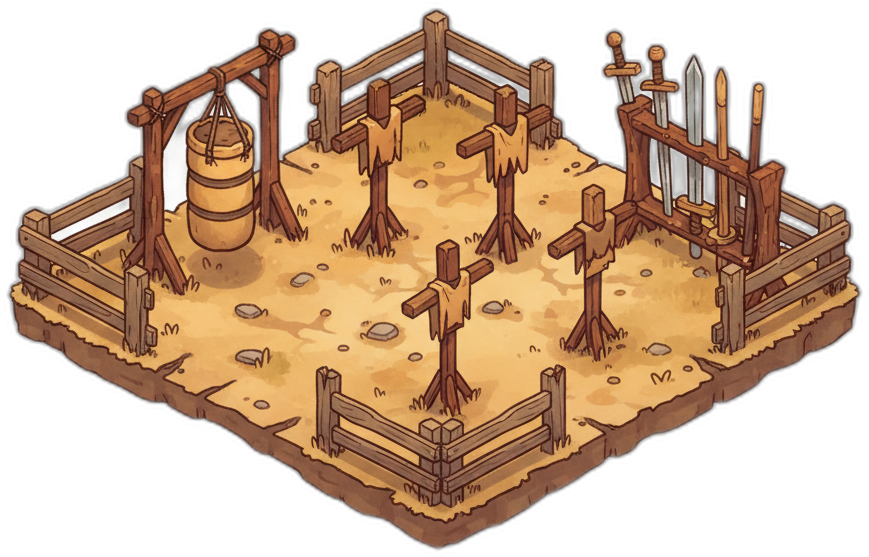
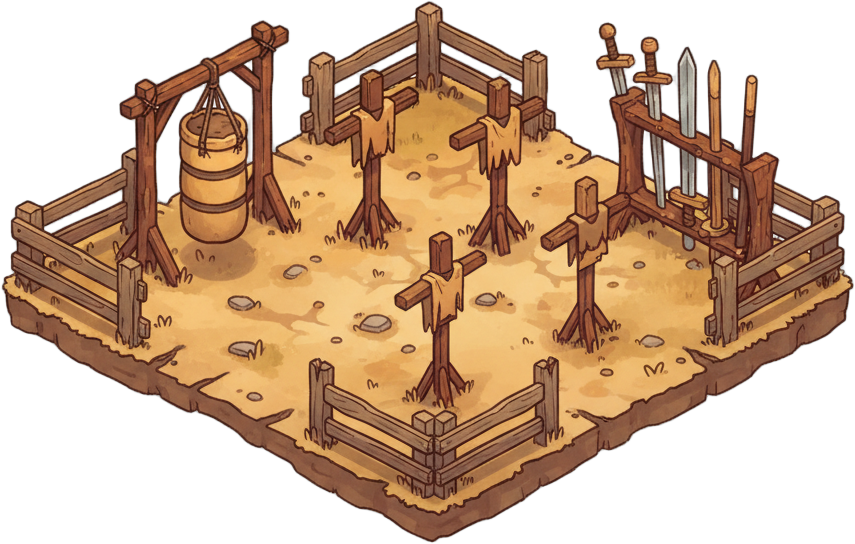
배럭 — 9:16 모바일 레이아웃 + 하단 네비 + 투명화 재처리
피드백 반영:
- 모든 건물 9장 birefnet-general 모델로 배경 재제거 (잔여물 제거)
  + auto-crop으로 정확한 bbox
- 9:16 포트레이트 레이아웃: HUD (56) + Stage 1:1 + Floor + Nav (64)
- 건물 너비 개별 조정 (주방/공방 22%, 훈련장 28% — 가로형 보정)
- 하단 네비게이션 4탭 (배럭/월드맵/편성/가문/상점) — GDD §5-4
- 월드맵 탭 클릭 시 배럭 닫기 + 다른 탭 placeholder 토스트

diff --git a/demo/style.css b/demo/style.css
@@ -953,54 +953,92 @@ html, body { height: 100%; overflow: hidden; background: #050507; color: #e8e8e8
 #loading-status { color: #6aa06a !important; font-family: monospace; }
 
 /* ─────────────────────────────────────────
-   배럭 뷰 (가문 본거지 마을 화면)
-   배경 1:1 정사각형, 건물 3개 + SD 캐릭터 활동
+   배럭 뷰 — 9:16 모바일 포트레이트 레이아웃
+   ┌───────────┐
+   │ Top HUD   │  ← 56px
+   ├───────────┤
+   │ 배경 1:1   │  ← width 100%, height = width
+   │ + 건물 3   │
+   ├───────────┤
+   │ 캐릭터존   │  ← BG와 같은 색조로 이어짐
+   ├───────────┤
+   │ Bottom Nav│  ← 64px (4탭)
+   └───────────┘
    ───────────────────────────────────────── */
 #barracks-view { position: absolute; inset: 0; z-index: 100;
-  background: #0a0a0a; display: flex; flex-direction: column;
-  animation: bk-fade 0.25s ease; }
+  display: flex; flex-direction: column;
+  background: linear-gradient(180deg, #88c5e8 0%, #d4a878 60%, #c89858 100%);
+  animation: bk-fade 0.25s ease; overflow: hidden; }
 @keyframes bk-fade { from { opacity: 0; } to { opacity: 1; } }
 
-.bk-hud { position: absolute; top: 0; left: 0; right: 0; z-index: 10;
-  background: linear-gradient(180deg, rgba(20,14,10,0.92), rgba(20,14,10,0.6) 70%, transparent);
-  padding: 10px 14px; display: flex; align-items: center; gap: 10px;
-  font-size: 13px; color: #ffd452; }
-.bk-loc { font-weight: bold; font-size: 14px;
-  background: rgba(0,0,0,0.5); padding: 4px 12px; border-radius: 12px;
-  border: 1px solid rgba(255,212,82,0.4); }
-.bk-currency { background: rgba(0,0,0,0.5); padding: 4px 10px; border-radius: 10px;
-  border: 1px solid rgba(255,255,255,0.15); color: #fff; }
-.bk-currency b { color: #ffd452; font-variant-numeric: tabular-nums; }
-.bk-close { margin-left: auto; padding: 6px 14px; border-radius: 6px;
-  border: 1px solid #888; background: rgba(0,0,0,0.6); color: #fff;
-  font-weight: bold; font-size: 12px; cursor: pointer; }
+/* 상단 HUD */
+.bk-hud { position: relative; z-index: 10; flex: 0 0 auto;
+  padding: 10px 12px; display: flex; align-items: center; gap: 8px;
+  font-size: 12px; color: #fff;
+  background: linear-gradient(180deg, rgba(15,10,6,0.9), rgba(15,10,6,0.4) 70%, transparent);
+  height: 56px; box-sizing: border-box; }
+.bk-loc { font-weight: bold; font-size: 13px; color: #ffd452;
+  background: rgba(0,0,0,0.55); padding: 5px 10px; border-radius: 12px;
+  border: 1px solid rgba(255,212,82,0.45); white-space: nowrap; }
+.bk-currency { background: rgba(0,0,0,0.55); padding: 5px 8px; border-radius: 10px;
+  border: 1px solid rgba(255,255,255,0.15); font-variant-numeric: tabular-nums; }
+.bk-currency b { color: #ffd452; }
+.bk-close { margin-left: auto; padding: 5px 10px; border-radius: 6px;
+  border: 1px solid #aaa; background: rgba(0,0,0,0.65); color: #fff;
+  font-weight: bold; font-size: 11px; cursor: pointer; }
 .bk-close:hover { filter: brightness(1.25); }
 
+/* 메인 스테이지 (배경 + 건물) */
 .bk-stage { position: relative; width: 100%; aspect-ratio: 1 / 1;
-  margin-top: auto; margin-bottom: auto;
-  overflow: hidden; }
+  flex: 0 0 auto; overflow: hidden; }
 .bk-bg { position: absolute; inset: 0; width: 100%; height: 100%;
   object-fit: cover; pointer-events: none; }
 
 .bk-building { position: absolute; cursor: pointer; z-index: 2;
   transition: transform 0.18s; transform-origin: 50% 100%;
-  filter: drop-shadow(0 4px 8px rgba(0,0,0,0.4)); }
+  filter: drop-shadow(0 5px 8px rgba(0,0,0,0.4)); }
 .bk-building:hover { transform: scale(1.06); z-index: 3; }
 .bk-building:active { transform: scale(1.02); }
 .bk-building img { display: block; width: 100%; height: auto;
   pointer-events: none; }
-.bk-bld-label { position: absolute; bottom: -20px; left: 50%;
+.bk-bld-label { position: absolute; bottom: -18px; left: 50%;
   transform: translateX(-50%); white-space: nowrap;
-  background: rgba(0,0,0,0.75); color: #ffd452;
-  padding: 2px 8px; border-radius: 8px; font-size: 11px; font-weight: bold;
-  border: 1px solid rgba(255,212,82,0.4); }
+  background: rgba(0,0,0,0.78); color: #ffd452;
+  padding: 2px 8px; border-radius: 8px; font-size: 10px; font-weight: bold;
+  border: 1px solid rgba(255,212,82,0.45); }
 .bk-bld-lv { color: #fff; font-weight: normal; opacity: 0.85; }
 
-/* SD 캐릭터 (sprite frame swap) */
+/* 하단 캐릭터 활동 존 (배경과 자연 연결) */
+.bk-floor { position: relative; flex: 1 1 auto; min-height: 60px;
+  background: linear-gradient(180deg, #c89858, #b08040);
+  overflow: hidden; }
+
+/* SD 캐릭터 — 스테이지+플로어 전체에서 wander */
 .bk-characters { position: absolute; inset: 0; pointer-events: none; z-index: 4; }
 .bk-char { position: absolute;
   width: 64px; height: 60px;
   background-repeat: no-repeat; background-position: 0 0;
   image-rendering: pixelated;
-  pointer-events: auto; cursor: pointer; }
+  pointer-events: auto; cursor: pointer;
+  filter: drop-shadow(0 2px 3px rgba(0,0,0,0.5)); }
 .bk-char.flip { transform: scaleX(-1); }
+
+/* 하단 네비게이션 (4탭) — GDD §5-4 */
+.bk-nav { position: relative; z-index: 10; flex: 0 0 auto;
+  height: 64px; display: flex;
+  background: linear-gradient(180deg, rgba(40,28,18,0.95), rgba(20,14,8,0.98));
+  border-top: 1.5px solid rgba(255,212,82,0.45);
+  box-shadow: 0 -3px 12px rgba(0,0,0,0.5); }
+.bk-nav-tab { flex: 1; display: flex; flex-direction: column;
+  align-items: center; justify-content: center; gap: 2px;
+  background: transparent; border: 0; cursor: pointer; color: #aaa;
+  font-size: 10px; font-weight: bold;
+  transition: color 0.15s, background 0.15s;
+  position: relative; }
+.bk-nav-tab:hover { color: #ffd452; background: rgba(255,212,82,0.08); }
+.bk-nav-tab.active { color: #ffd452;
+  background: linear-gradient(180deg, rgba(255,212,82,0.15), transparent); }
+.bk-nav-tab.active::before { content: ""; position: absolute;
+  top: 0; left: 20%; right: 20%; height: 2px; background: #ffd452; }
+.bk-nav-icon { font-size: 22px; line-height: 1; }
+.bk-nav-label { letter-spacing: 0.5px; }

diff --git a/demo/index.html b/demo/index.html
@@ -82,34 +82,64 @@
       <button id="btn-reset-encounters" type="button" data-tip="🧪 조우 리셋 (테스트)|현재 조우 모두 제거 후 초기 6마리 재배치.">🧪</button>
     </aside>
 
-    <!-- 배럭 뷰 — 풀스크린 오버레이 (가문 본거지 마을 화면) -->
+    <!-- 배럭 뷰 — 9:16 모바일 포트레이트 레이아웃 (HUD + 스테이지 + 플로어 + 네비) -->
     <section id="barracks-view" hidden>
-      <div class="bk-stage" id="bk-stage">
-        <!-- 배경 -->
-        <img class="bk-bg" src="./img/barracks/bg_reboldoeux_day.png" alt="" />
-        <!-- 건물 3개 (좌표는 stage % 기반, JS에서 src tier 변경) -->
-        <div class="bk-building" data-bld="kitchen" style="left:18%; top:62%; width:22%;">
-          <img src="./img/barracks/bld_kitchen_t0.png" alt="🍳 주방" />
-          <span class="bk-bld-label">🍳 주방 <span class="bk-bld-lv">Lv 1</span></span>
-        </div>
-        <div class="bk-building" data-bld="smithy" style="left:42%; top:70%; width:22%;">
-          <img src="./img/barracks/bld_smithy_t0.png" alt="🔨 공방" />
-          <span class="bk-bld-label">🔨 공방 <span class="bk-bld-lv">Lv 1</span></span>
-        </div>
-        <div class="bk-building" data-bld="training" style="left:66%; top:62%; width:22%;">
-          <img src="./img/barracks/bld_training_t0.png" alt="⚔ 훈련장" />
-          <span class="bk-bld-label">⚔ 훈련장 <span class="bk-bld-lv">Lv 1</span></span>
-        </div>
-        <!-- SD 캐릭터 영역 (JS가 채움) -->
-        <div class="bk-characters" id="bk-characters"></div>
-      </div>
       <!-- 상단 HUD -->
       <header class="bk-hud">
         <span class="bk-loc">🏰 리볼도외</span>
         <span class="bk-currency">💰 <b id="bk-gold">0</b></span>
         <span class="bk-currency">🌾 <b id="bk-grain">0</b></span>
+        <span class="bk-currency">⛏ <b id="bk-iron">0</b></span>
         <button class="bk-close" id="btn-close-barracks">⬅ 월드맵</button>
       </header>
+
+      <!-- 메인 스테이지 (배경 + 건물) — 1:1 비율 -->
+      <div class="bk-stage" id="bk-stage">
+        <img class="bk-bg" src="./img/barracks/bg_reboldoeux_day.png" alt="" />
+        <!-- 건물 3개 — width 픽셀로 정규화 (실제 이미지 비율 다름 → 시각적 사이즈 균등) -->
+        <div class="bk-building" data-bld="kitchen" style="left:14%; top:64%; width:22%;">
+          <img src="./img/barracks/bld_kitchen_t0.png" alt="🍳 주방" />
+          <span class="bk-bld-label">🍳 주방 <span class="bk-bld-lv">Lv 1</span></span>
+        </div>
+        <div class="bk-building" data-bld="smithy" style="left:39%; top:70%; width:22%;">
+          <img src="./img/barracks/bld_smithy_t0.png" alt="🔨 공방" />
+          <span class="bk-bld-label">🔨 공방 <span class="bk-bld-lv">Lv 1</span></span>
+        </div>
+        <div class="bk-building" data-bld="training" style="left:62%; top:64%; width:28%;">
+          <img src="./img/barracks/bld_training_t0.png" alt="⚔ 훈련장" />
+          <span class="bk-bld-label">⚔ 훈련장 <span class="bk-bld-lv">Lv 1</span></span>
+        </div>
+      </div>
+
+      <!-- 하단 광장 연장 (캐릭터 wander 영역) -->
+      <div class="bk-floor"></div>
+
+      <!-- SD 캐릭터 영역 (스테이지+플로어 전체 덮음, JS가 채움) -->
+      <div class="bk-characters" id="bk-characters"></div>
+
+      <!-- 하단 네비게이션 — GDD §5-4 (4탭) -->
+      <nav class="bk-nav">
+        <button type="button" class="bk-nav-tab active" data-tab="village">
+          <span class="bk-nav-icon">🏘</span>
+          <span class="bk-nav-label">배럭</span>
+        </button>
+        <button type="button" class="bk-nav-tab" data-tab="worldmap" id="bk-nav-worldmap">
+          <span class="bk-nav-icon">🗺</span>
+          <span class="bk-nav-label">월드맵</span>
+        </button>
+        <button type="button" class="bk-nav-tab" data-tab="party">
+          <span class="bk-nav-icon">⚔</span>
+          <span class="bk-nav-label">편성</span>
+        </button>
+        <button type="button" class="bk-nav-tab" data-tab="family">
+          <span class="bk-nav-icon">🏛</span>
+          <span class="bk-nav-label">가문</span>
+        </button>
+        <button type="button" class="bk-nav-tab" data-tab="shop">
+          <span class="bk-nav-icon">🛒</span>
+          <span class="bk-nav-label">상점</span>
+        </button>
+      </nav>
     </section>
 
     <!-- 하단 액션 바 (접힌 상태로 시작) -->

diff --git a/demo/src/main.js b/demo/src/main.js
@@ -3233,6 +3233,15 @@ async function boot() {
     openBarracks();
   });
   document.getElementById("btn-close-barracks")?.addEventListener("click", closeBarracks);
+  // 하단 네비 — 월드맵 탭 = 배럭 닫기 (다른 탭들은 placeholder)
+  document.getElementById("bk-nav-worldmap")?.addEventListener("click", closeBarracks);
+  document.querySelectorAll(".bk-nav-tab").forEach(tab => {
+    tab.addEventListener("click", () => {
+      const id = tab.dataset.tab;
+      if (id === "worldmap" || id === "village") return;
+      showToast(`🚧 ${tab.querySelector(".bk-nav-label").textContent} — 준비 중`, "warn");
+    });
+  });
   document.querySelectorAll("#barracks-view .bk-building").forEach(el => {
     el.addEventListener("click", () => {
       const bld = el.dataset.bld;
